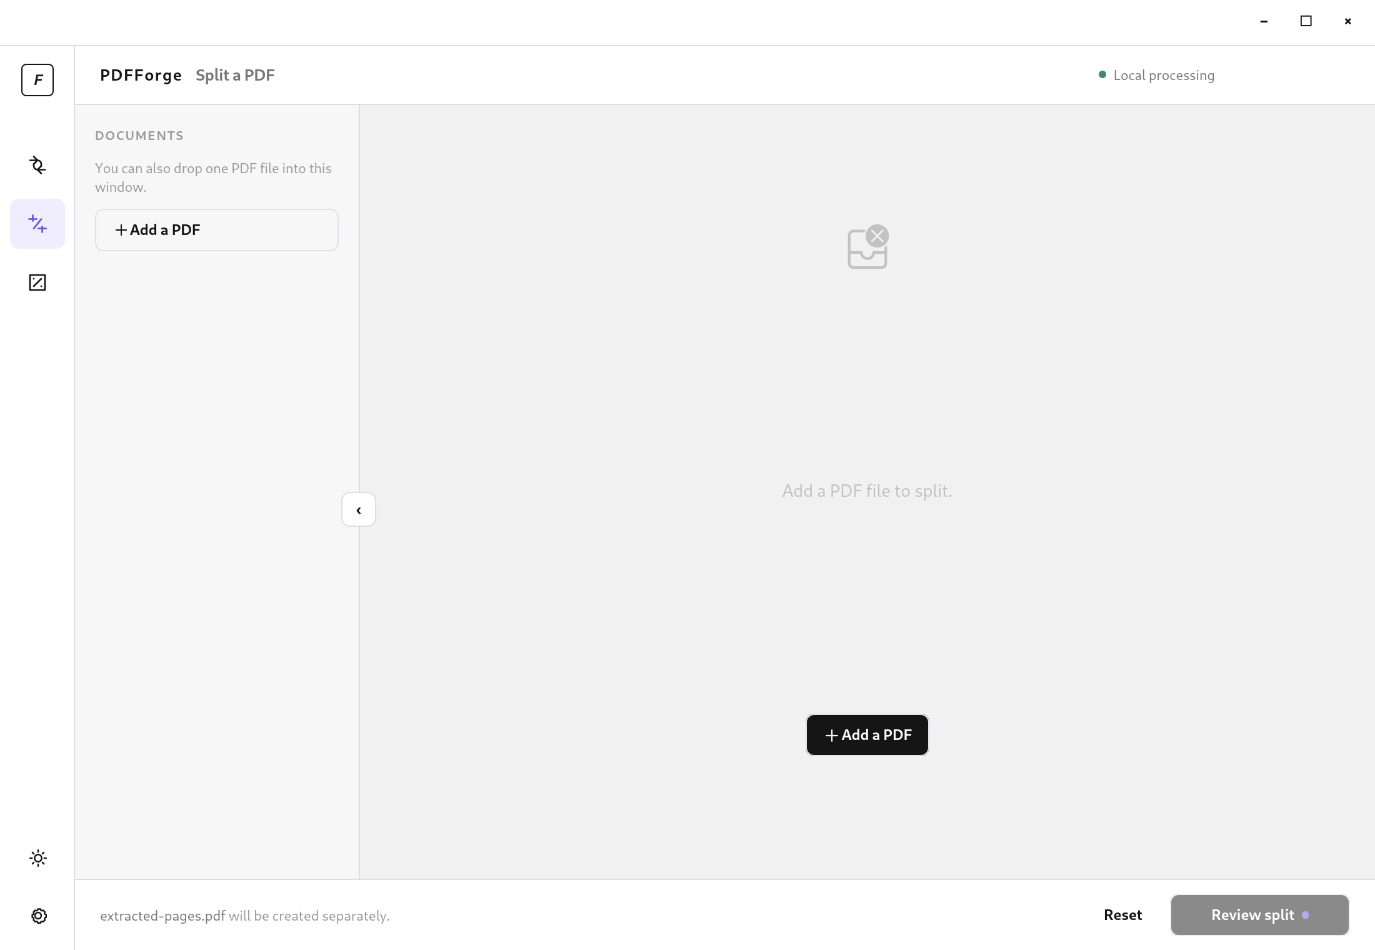
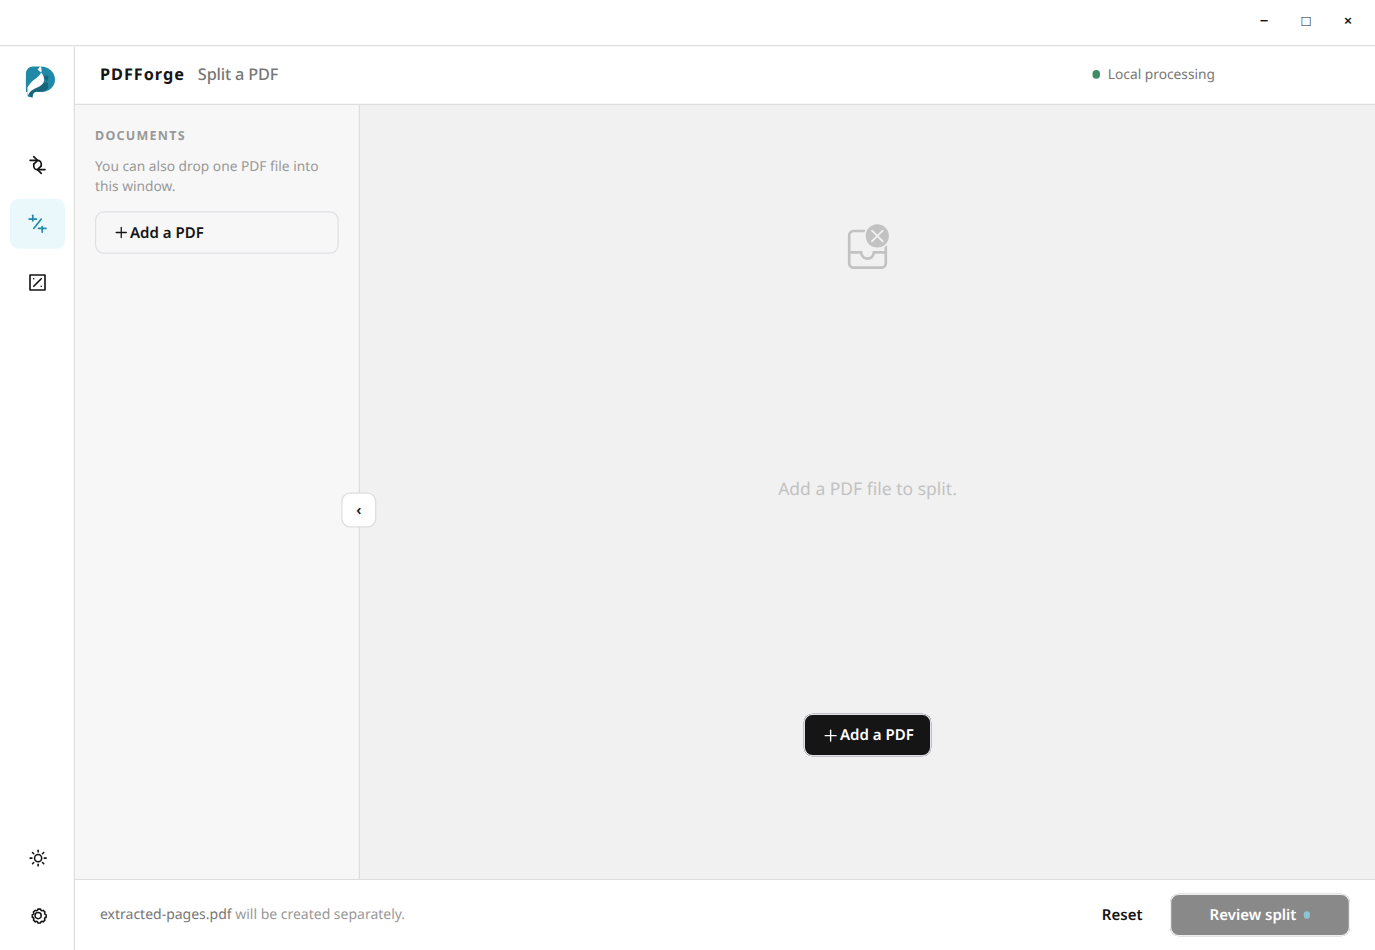
docs: refresh screenshots and complete user guide

diff --git a/README.md b/README.md
@@ -1,9 +1,27 @@
 # PDFForge
 
 PDFForge is a personal desktop application for working with PDF files directly
-on your computer. Documents and processing stay local: no file is uploaded to
-the Internet, no connection is required, and no history of processed PDFs is
-kept after the application closes.
+on your computer. Documents and processing stay local: no document is uploaded
+to the Internet, PDF tools work offline, and no history of processed PDFs is
+kept after the application closes. Internet access is used only when you
+explicitly request an application update check or download. No telemetry is
+collected.
+
+## Download and run
+
+Download the file for your system from the
+[latest release](https://github.com/zemoa/pdfforge/releases/latest):
+
+- **Linux x86_64:** download `PDFForge-<version>-linux-x86_64.AppImage`, make it
+  executable in your file manager or with `chmod +x <downloaded-file>.AppImage`,
+  then run it. Your system may need FUSE to mount the AppImage.
+- **Windows x86_64:** download and run
+  `PDFForge-<version>-windows-x86_64.exe`. No installer is needed; the executable
+  extracts its bundled PDF runtime into your local application-data folder.
+  Microsoft WebView2 must be available on the system.
+
+The PDF engine is included on both platforms. The accompanying `.sig` and
+`.sha256` files are used to verify in-application updates.
 
 ## Screenshots
 
@@ -15,8 +33,10 @@ kept after the application closes.
 
 - Add at least two PDFs from your folders or by drag and drop, including the
   same file more than once when needed.
-- Freely reorder them by drag and drop, then choose the name and folder for the
-  final PDF.
+- Add a whole folder to include the PDFs directly inside it, initially sorted
+  alphabetically; subfolders are not scanned.
+- Freely reorder documents by dragging their central thumbnails or using the
+  sidebar's up/down arrows, then choose the name and folder for the final PDF.
 - Review the summary before confirming. The generated PDF opens when processing
   is complete; source files are never changed.
 
@@ -36,7 +56,7 @@ When splitting creates several PDFs, PDFForge opens only their containing
 folder. Each result retains its pages' size and orientation, without modifying
 the source document.
 
-![Empty Split workspace, with document and output panels](docs/images/split.png)
+![Empty Split workspace, with document sidebar and page area](docs/images/split.png)
 
 ### Permanently redact information
 
@@ -51,6 +71,11 @@ By default, the result is saved next to the source document as
 `<document-name>-masked.pdf`. Both its name and folder can be changed before
 confirmation.
 
+To make redaction permanent, every output page is rendered as an image at
+300 ppi. The result keeps its page dimensions and visual orientation, but text
+is no longer selectable or searchable, and links, forms, bookmarks and source
+metadata are not retained. Keep the original if you need those features.
+
 ![Empty Redact workspace, with source and selection panels](docs/images/redact.png)
 
 ## Safe, predictable workflow
@@ -61,10 +86,32 @@ confirmation.
   Partial output files are then removed.
 - If an output name already exists, PDFForge automatically appends a number —
   for example, `document-1.pdf` — without overwriting the existing file.
+- Choose an existing destination folder or paste its path. On Windows, you can
+  also copy a folder in Explorer and paste it into the destination field.
 - Password-protected, unreadable, or inaccessible PDFs never trigger a password
   prompt: you can choose to skip them or stop the preparation.
-- The application starts in your system language and supports documents from a
-  few pages to several hundred pages.
+- The application warns before closing during an active PDF operation. After
+  success or cancellation, the workspace is cleared for the next task.
+- English and French are available, with the system language selected at
+  startup and English as the fallback. Switch languages and choose a light,
+  dark or system theme from the home screen.
+- Documents can range from a few pages to several hundred pages.
+
+## Application updates
+
+On the home screen, click the **PDFForge version** link beside the preferences
+to open **About and updates**, then choose **Check for updates**. PDFForge never
+checks or downloads automatically. It lists the release notes for all stable
+versions newer than the installed version, newest first.
+
+Choose **Download and install** to install the latest stable version. PDFForge
+verifies its cryptographic signature and checksum before replacing the
+application and restarting. If the application folder is not writable, the
+verified download is saved in Downloads for manual replacement.
+
+One previous version is kept after an update and can be restored from the same
+dialog. Finish your PDF work before updating or restoring: restarting can
+discard a preparation that has not been processed yet.
 
 ## Availability
 

diff --git a/DEVELOPMENT.md b/DEVELOPMENT.md
@@ -150,3 +150,23 @@ Without both certificate secrets, the portable executable is built unsigned. Nev
 ## Documentation maintenance
 
 All architecture decisions belong in `ARCHITECTURE.md`. All developer-facing operating instructions belong here. Update `AGENTS.md` only when the required AI workflow changes.
+
+### README screenshots
+
+Keep the four PNGs in `docs/images/` aligned with the current interface. Use
+English, the light theme, a 1100 × 760 logical-pixel viewport and a 1.25 scale
+factor (1375 × 950 output pixels). Capture the home screen as `welcome.png` and
+the empty Merge, Split and Redact workspaces as `merge.png`, `split.png` and
+`redact.png`. Leave the default panels expanded, move the pointer away from
+controls, and wait for fonts and transitions to settle. Exclude browser chrome,
+personal documents and filesystem paths.
+
+The empty workspaces can be captured from the local renderer with `pnpm dev`
+at `http://localhost:1420/#/`, `/#/merge`, `/#/split` and `/#/redact`. Browser
+preview has no Tauri backend, so it is suitable only for these presentation
+captures; use `pnpm tauri dev` for any capture requiring document operations or
+update status. This is documentation capture, not an end-to-end test suite.
+
+Inspect every image for clipped controls or transient overlays, check its
+README link and alt text, and run
+`pnpm exec prettier README.md DEVELOPMENT.md --check` after documentation edits.
